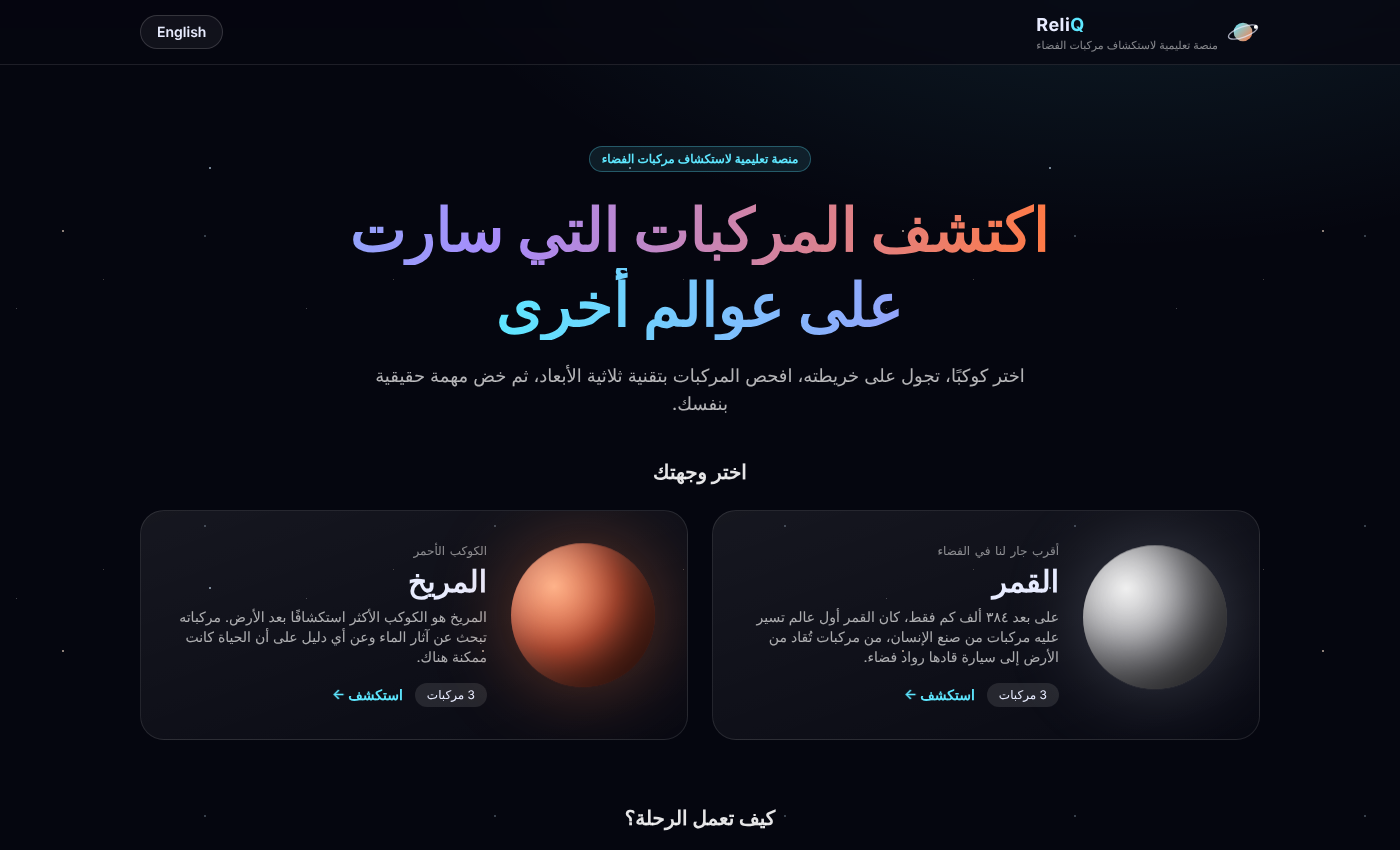
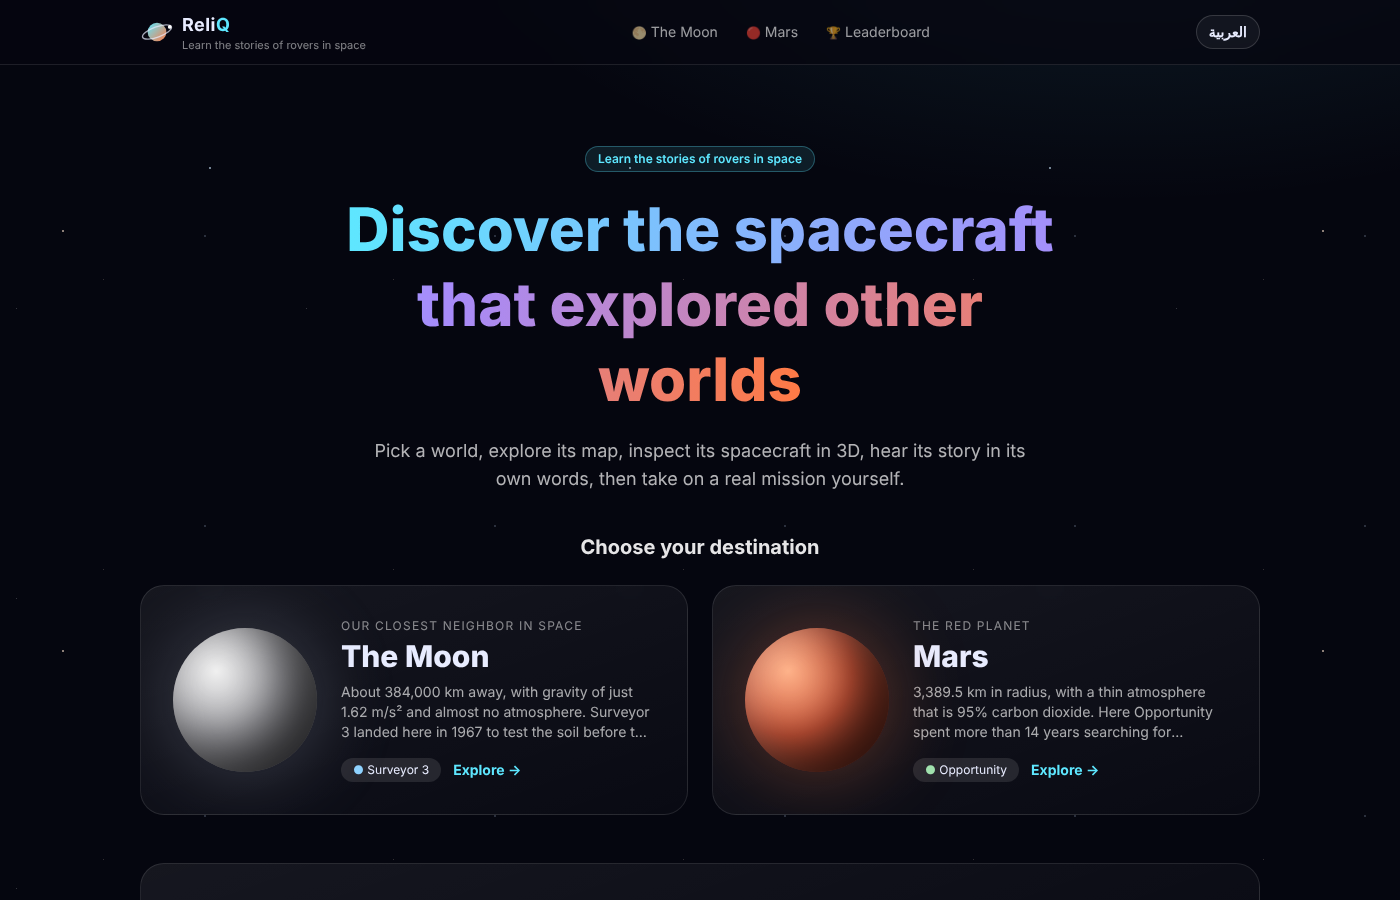
Update screenshots to the current English site
Replace the outdated screenshots (older version, Arabic UI) with the
current Home, Mission and Leaderboard pages in English.

Claude-Session: https://claude.ai/code/session_01USwN9V4W1aYuPkK5dhV4R9

diff --git a/README.md b/README.md
@@ -11,14 +11,14 @@ hear its first-person story, talk with it (Claude-powered chatbot grounded in NA
 
 ## 📸 Screenshots
 
-**Home: choose a planet**
+**Home: choose a world**
 ![Home page](screenshots/home.png)
-
-**Rover page: 3D model, key facts, and AI chatbot**
-![Rover page](screenshots/rover.png)
 
 **Mission: short decision-based quiz**
 ![Mission page](screenshots/mission.png)
+
+**Leaderboard: earn XP and climb the ranks**
+![Leaderboard page](screenshots/leaderboard.png)
 
 ## 🛰 NASA open data | بيانات ناسا المفتوحة
 
